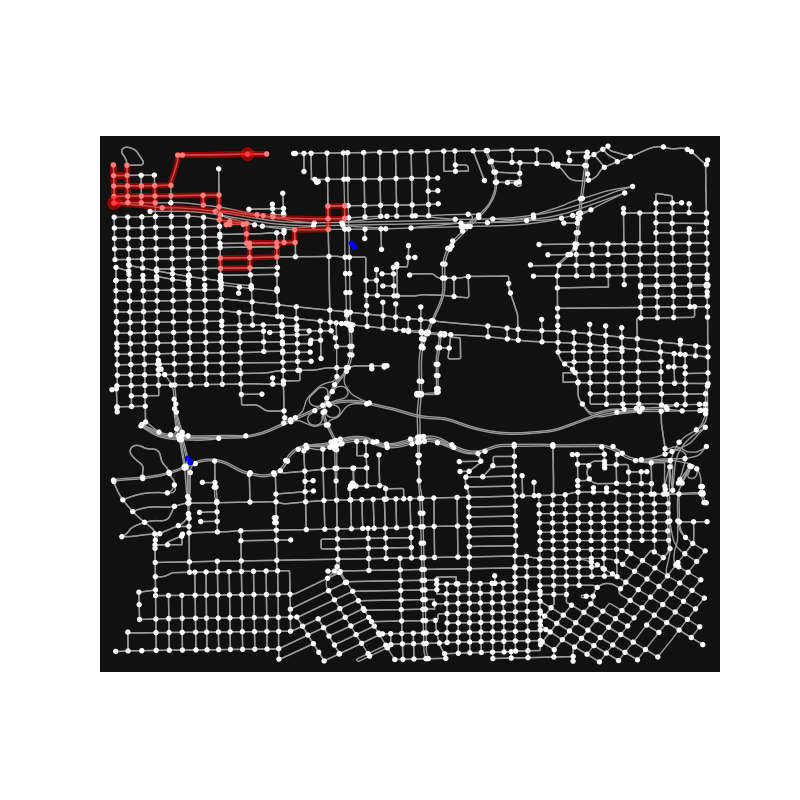
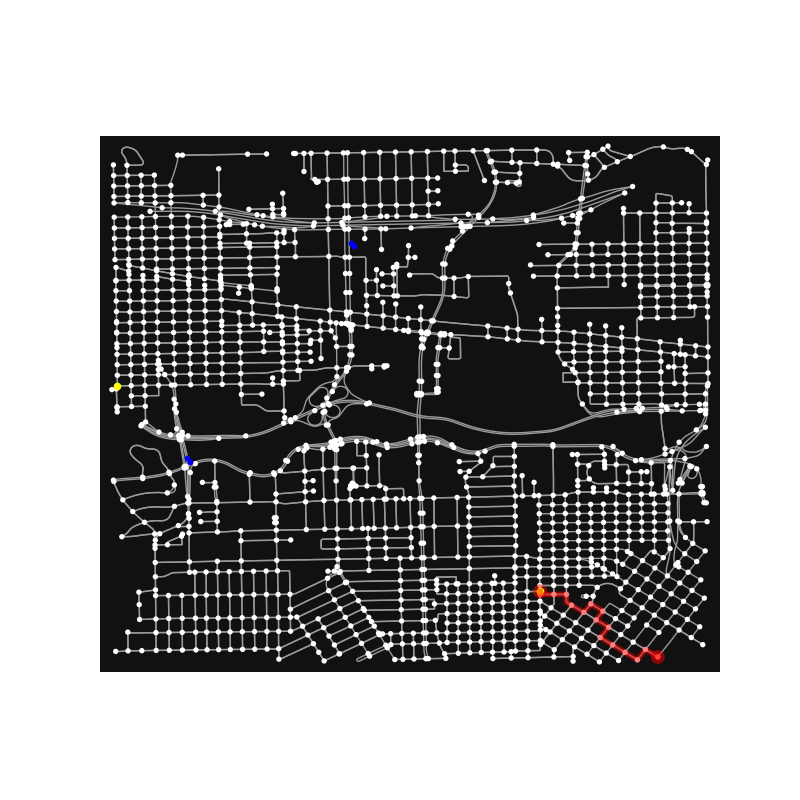
update v2

Changed region(s): [[0.125, 0.1875, 0.4375, 0.3438], [0.6562, 0.7188, 0.7812, 0.8125], [0.7812, 0.8125, 0.8438, 0.8438]]

diff --git a/src/gym_graph_map/envs/graph_map_env_v2.py b/src/gym_graph_map/envs/graph_map_env_v2.py
@@ -54,15 +54,15 @@ class GraphMapEnvV2(gym.Env):
         self.adj_shape = (self.number_of_nodes, self.number_of_nodes)
         self.action_space = spaces.Discrete(
             self.number_of_nodes,)
-        
+
         self.observation_space = spaces.Dict({
             "observations": spaces.Box(low=np.array([
-                0, # current node
-                # 0, # current distance to goal
+                0,  # current node
+                0,  # current distance to goal
                 # 0,
             ]), high=np.array([
                 self.number_of_nodes,
-                # self.threshold*2,
+                self.threshold*2,
                 # self.threshold*2,
             ]), dtype=np.float32),
             "action_mask": spaces.Box(low=0, high=1, shape=(self.action_space.n,), dtype=np.int64),
@@ -143,16 +143,18 @@ class GraphMapEnvV2(gym.Env):
             self.current_closest_distance
         Uncomment self.action_space to update the neighbors
         """
-        self.neighbors = list(self.reindexed_graph.neighbors(self.current))
+        self.neighbors = list(x for x in self.reindexed_graph.neighbors(self.current) if x != self.last_current)
         if self.verbose:
             print(self.current, "'s neighbors: ", self.neighbors)
         # self.action_space.neighbors = self.neighbors
-        self.current_distance_goal = self._great_circle_vec(self.current_node, self.goal_node)
-        self.current_closest_distance = self._get_closest_distance_neg(self.current_node)
+        self.current_distance_goal = self._great_circle_vec(
+            self.current_node, self.goal_node)
+        self.current_closest_distance = self._get_closest_distance_neg(
+            self.current_node)
         self.state = {
             "observations": np.array([
                 self.current,
-                # self.current_distance_goal,
+                self.current_distance_goal,
                 # self.current_closest_distance,
             ], dtype=np.float32),
             "action_mask": self.action_masks(),
@@ -179,6 +181,7 @@ class GraphMapEnvV2(gym.Env):
         for _, row in df.iterrows():
             node = {'x': row[0], 'y': row[1], 'weight': row[2]}
             dist = self._great_circle_vec(center_node, node)
+
             # caculate the distance between the node and the center node
             if dist <= self.threshold:
                 neg_nodes.append(node)
@@ -239,15 +242,16 @@ class GraphMapEnvV2(gym.Env):
         TODO: consider eposide reward
         """
         # too close to a negative point will cause a negative reward
-        factor = min(1, 1 + np.log(self.current_closest_distance / self.avoid_threshold))
+        factor = min(
+            1, 1 + np.log(self.current_closest_distance / self.avoid_threshold))
         # r1 = np.log(- self.current_step + self.EP_LENGTH + 1) - 2
         r2 = 1.0 if self.current == self.goal else 0.0
         r3 = r2 * self.sigmoid2(self.path_length)
 
         # r4 = np.log2(- (self.travel_time /
         #              self.nx_shortest_travel_time_length) + 2) + 1
-        r5 = self.sigmoid1(self.current_distance_goal)
-        r = np.mean([r2, r3, r5]) * factor
+        # r5 = self.sigmoid1(self.current_distance_goal)
+        r = np.mean([r2, r3]) * factor
         return r
 
     def step(self, action):
@@ -265,10 +269,12 @@ class GraphMapEnvV2(gym.Env):
             self.done: whether the episode is done
             self.info: the information
         """
+        self.last_current = self.current
         self.current = action
         self.current_node = self.nodes[self.current]
         self.current_step += 1
         self.path.append(self.current)
+
         if self.verbose:
             print("self.path:", self.path)
 
@@ -317,6 +323,7 @@ class GraphMapEnvV2(gym.Env):
         self.goal_node = self.nodes[self.goal]
 
         self.current = self.origin
+        self.last_current = -1
         self.current_node = self.nodes[self.current]
         self.current_step = 0
         self.done = False
@@ -344,7 +351,7 @@ class GraphMapEnvV2(gym.Env):
                             assume_unique=True).astype(np.int64)
         return self.mask
 
-    def render(self, mode='human', default_path=None, plot_learned=True, plot_neg=True, save=True):
+    def render(self, mode='human', default_path=None, plot_learned=True, plot_neg=True, save=True, show=False):
         """
         Renders the environment
         """
@@ -358,11 +365,25 @@ class GraphMapEnvV2(gym.Env):
             fig, ax = ox.plot_graph_route(
                 self.reindexed_graph, self.path, save=False, filepath=self.render_img_path, show=False, close=False)
             if plot_neg:
-                gdf = geopandas.GeoDataFrame(
+                self.origin_node = self.nodes[self.origin]
+                goal_df = pd.DataFrame({
+                    "Longitude": [self.goal_node['x'], self.origin_node['x']],
+                    "Latitude": [self.goal_node['y'], self.origin_node['y']]
+                })
+                # plot the origin and goal
+                gdf_goal = geopandas.GeoDataFrame(
+                    goal_df, geometry=geopandas.points_from_xy(goal_df['Longitude'], goal_df['Latitude']))
+                gdf_goal.plot(ax=ax, color='yellow', markersize=20)
+
+                # plot negative points
+                gdf_neg = geopandas.GeoDataFrame(
                     self.df, geometry=geopandas.points_from_xy(self.df['Longitude'], self.df['Latitude']))
-                gdf.plot(ax=ax, markersize=10, color="blue", alpha=1, zorder=7)
+                gdf_neg.plot(ax=ax, markersize=10,
+                             color="blue", alpha=1, zorder=7)
+
                 plt.savefig(self.render_img_path)
-                plt.show()
+                if show:
+                    plt.show()
                 plt.close(fig)
 
         if mode == 'human':

diff --git a/src/rllib_graph_map_v2.py b/src/rllib_graph_map_v2.py
@@ -15,47 +15,73 @@ from gym_graph_map.envs.graph_map_env_v2 import GraphMapEnvV2
 from ray_models.models import ActionMaskModel as Model
 # from ray_models.action_mask_model import ActionMaskModel as Model
 from ray.tune.integration.wandb import WandbLoggerCallback
+from ray.tune.registry import register_env
+
+# render rgb_array
+import imageio
+import IPython
+from PIL import Image
+from pyvirtualdisplay import Display
+display = Display(visible=0, size=(1400, 900))
+display.start()
+
+
+def create_policy_eval_video(env, trainer, filename="eval_video", num_episodes=200, fps=30):
+    filename = home + "/dev/GraphRouteOptimizationRL/images/" + filename + ".gif"
+    with imageio.get_writer(filename, fps=fps) as video:
+        obs = env.reset()
+        for _ in range(num_episodes):
+            action = trainer.compute_single_action(obs)
+            obs, reward, done, info = env.step(action)
+            im = env.render(mode="rgb_array", )
+            video.append_data(im)
+            if done:
+                obs = env.reset()
+                break
+        env.close()
+    return filename
 
 
 args = {
     'no_masking': False,
     'run': 'APPO',  # PPO, APPO
-    'eager_tracing': False,
-    'stop_iters': 100,
-    'stop_timesteps': 10000,
-    'stop_reward': 200,
-    'no_tune': False,
+    'stop_iters': 100,  # stop iters for each step
+    'stop_timesteps': 1e+7,
+    'stop_reward': 1*200
 }
 
 if __name__ == "__main__":
     # Init Ray in local mode for easier debugging.
-    ray.init(include_dashboard=False)
+    ray.init(local_mode=True, include_dashboard=False)
     home = str(Path.home())
     graph_path = home + \
         "/dev/GraphRouteOptimizationRL/datasets/osmnx/houston_tx_usa_drive_2000.graphml"
     neg_df_path = home + "/dev/GraphRouteOptimizationRL/datasets/tx_flood.csv"
     G = ox.load_graphml(graph_path)
     print("Loaded graph")
-
+    env_config = {
+        'graph': G,
+        'verbose': False,
+        'neg_df': pd.read_csv(neg_df_path),
+        'center_node': (29.764050, -95.393030),
+        'threshold': 2900
+    }
     config = {
         "env": GraphMapEnvV2,
-        "env_config": {
-            'graph': G,
-            'verbose': False,
-            'neg_df': pd.read_csv(neg_df_path),
-            'center_node': (29.764050, -95.393030),
-            'threshold': 2900
-        },
+        "env_config": env_config,
         "model": {
             "custom_model": Model,
             # disable action masking according to CLI
             "custom_model_config": {"no_masking": args['no_masking']},
         },
-        "horizon": 100,
+        "lambda": 0.9999,
+        "horizon": 300,  # max steps per episode
         "framework": "tf2",
         "num_gpus": 1,
-        "eager_tracing": args['eager_tracing'],
-        "log_level": 'INFO'
+        "num_workers": 5,
+        # For production workloads, set eager_tracing=True ; to match the speed of tf-static-graph (framework='tf'). For debugging purposes, `eager_tracing=False` is the best choice.
+        "eager_tracing": False,
+        "log_level": 'ERROR'
     }
 
     stop = {
@@ -63,14 +89,35 @@ if __name__ == "__main__":
         "timesteps_total": args['stop_timesteps'],
         "episode_reward_mean": args['stop_reward'],
     }
+
     # run with tune for auto trainer creation, stopping, TensorBoard, etc.
-    results = tune.run(args['run'], config=config, stop=stop, verbose=2,
-                       #    callbacks=[WandbLoggerCallback(
-                       #        project="graph_map_ray",
-                       #        group="Test",
-                       #        excludes=["perf"],
-                       #        log_config=False)]
+    results = tune.run(args['run'], config=config, stop=stop, verbose=0,
+                       callbacks=[WandbLoggerCallback(
+                           project="graph_map_ray",
+                           group="tune_1",
+                           excludes=["perf"],
+                           log_config=False)],
+                       keep_checkpoints_num=1,
+                       checkpoint_at_end=True,
                        )
 
     print("Finished successfully without selecting invalid actions.", results)
+
+    trial = results.get_best_trial(metric="episode_reward_mean", mode="max")
+    checkpoints = results.get_trial_checkpoints_paths(
+        trial, metric="episode_reward_mean")
+    print("Best checkpoint:", checkpoints)
+
+    # checkpoints = [('/h/diya.li/ray_results/APPO/APPO_GraphMapEnvV2_ca2bd_00000_0_2022-04-26_21-14-38/checkpoint_000005/checkpoint-5', 40.55825641636045)]
+    if checkpoints:
+        checkpoint_path = checkpoints[0][0]
+        # ppo_config = ppo.DEFAULT_CONFIG.copy()
+        # ppo_config.update(config)
+        config['num_workers'] = 1
+        trainer = ppo.APPOTrainer(config=config, env=GraphMapEnvV2)
+        trainer.restore(checkpoint_path)
+        env = GraphMapEnvV2(config["env_config"])
+        print("run one iteration until done and render")
+        filename = create_policy_eval_video(env, trainer)
+        print(filename, "recorded")
     ray.shutdown()

diff --git a/src/ray_models/ray_minigrid.py b/src/ray_models/ray_minigrid.py
@@ -207,7 +207,7 @@ def test_curiosity_on_partially_observable_domain(train=True):
                                 log_config=False)]
                                 )
                                 
-        check_learning_achieved(analysis, min_reward)
+        check_learning_achieved(analysis, "min_reward")
         best_config = analysis.get_best_config(metric="episode_reward_mean", mode="max")
         print("Best Config:", best_config)
         iters = analysis.trials[0].last_result["training_iteration"]
